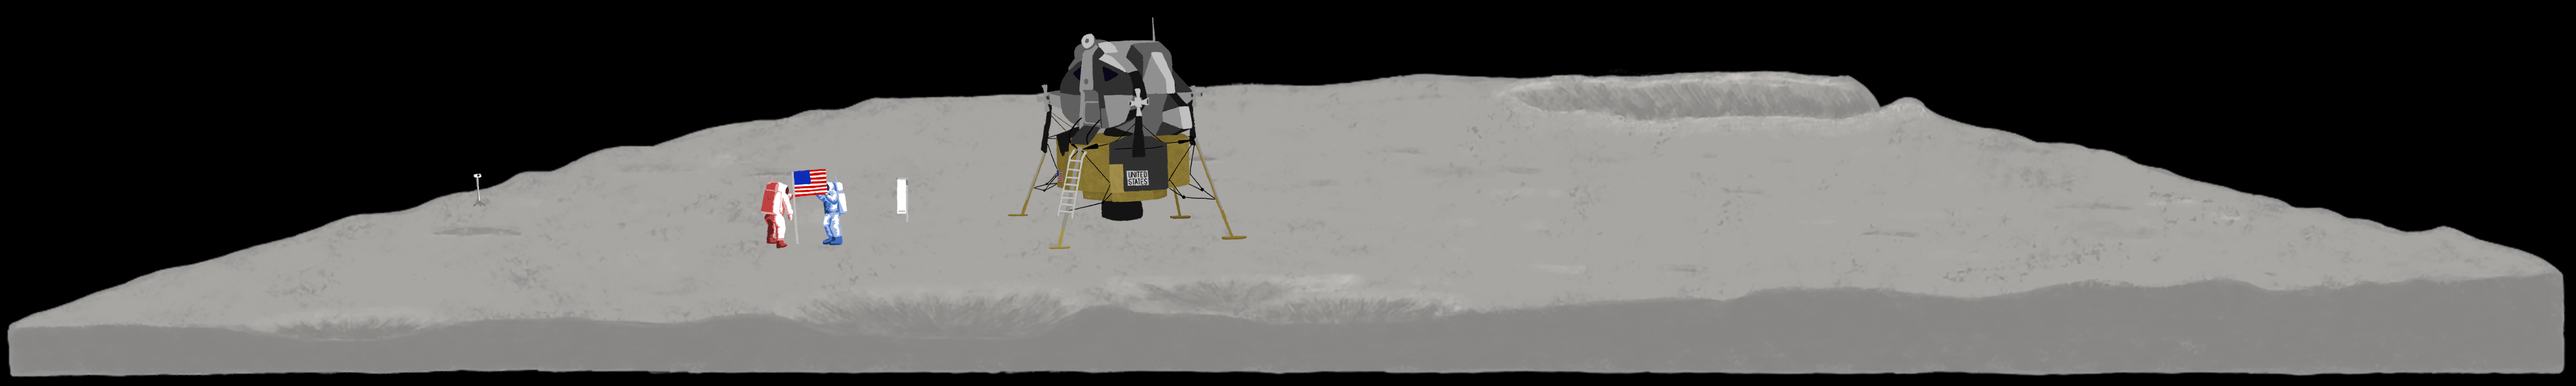
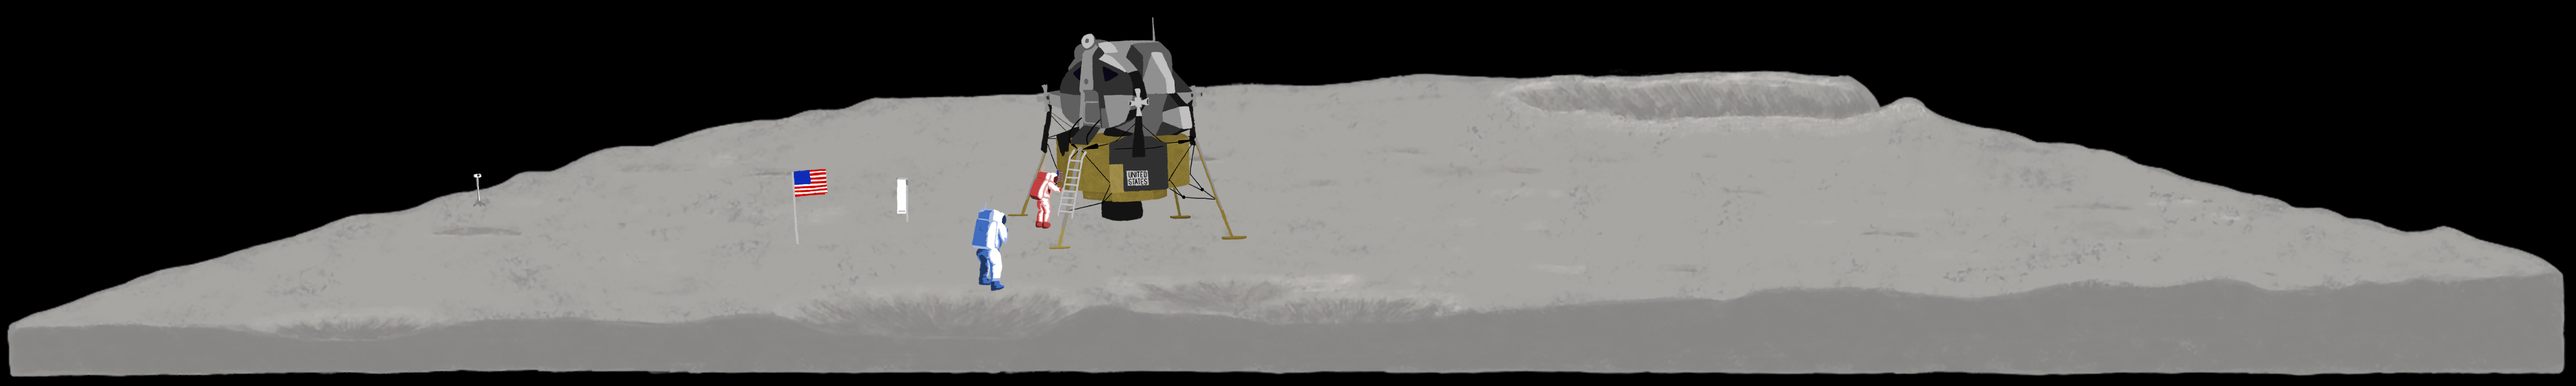
Updates animations

Changed region(s): [[0.375, 0.45, 0.4375, 0.75], [0.2812, 0.48, 0.3438, 0.63]]

diff --git a/index.html b/index.html
@@ -24,6 +24,26 @@
 			</p>
         </section>
 
+        <div class="header" id="labels">    
+            <div class="header-p">
+                <p>
+                    <span class="armstrong">NEIL</span>
+                    <span class="aldrin">BUZZ</span>
+                </p><br>
+                <p>
+                    <span class="armstrong">ARMSTRONG</span>
+                    <span class="aldrin">ALDRIN</span>
+                </p>
+            </div>
+        </div>
+
+        <div class="header-c" id="collins">
+                <p>
+                    <span class="collins">MICHAEL</span><br>
+                    <span class="collins">COLLINS</span>
+                </p>
+        </div>
+
 		<section id='scrolly'>
 
 			<figure>
@@ -33,7 +53,7 @@
 
             <!--Transcript goes here-->
 			<article>
-				<div class='step' data-step='1'>
+                <div class='step' data-step='1'>
                     <p>hr:mn<br>00:00</p>
                     <ul>
                         <li class="neil">The hatch is coming open.</li>
@@ -141,7 +161,17 @@
                 </div>
 
 				<div class='step' data-step='8'>
-                    <p>01:01</p>
+                    <p>01:24</p>
+                        <ul>
+                            <li class="buzz">And right in this area, there are two craters. The one that's right in front of me now as I look off in about the eleven o'clock position from the spacecraft, about 30 to 35 feet ... There's several rocks and boulders 6 to 8 inches across.</li>
+                            <li class="comment">...</li>
+                            <li class="buzz">How's the bulk sample coming, Neil?</li>
+                            <li class="neil">Bulk sample is just being sealed.</li>
+                        </ul>
+                </div>
+                
+                <div class='step' data-step='9'>
+                    <p>END</p>
                         <ul>
                             <li class="capcom"> Columbia, this is Houston. Reading you loud and clear. Over.</li>
                             <li class="mike"> Yes. Reading you loud and clear. How's it going?</li>
@@ -157,25 +187,10 @@
                         </ul>
                 </div>
                 
-                <div class='step' data-step='9'>
-                    <p>01:01</p>
-                        <ul>
-                            <li class="capcom"> Columbia, this is Houston. Reading you loud and clear. Over.</li>
-                            <li class="mike"> Yes. Reading you loud and clear. How's it going?</li>
-                            <li class="capcom"> Roger. The EVA is progressing beautifully. I believe they are setting up the flag now.</li>
-                            <li class="mike"> Great.</li>
-                            <li class="capcom"> I guess you're about the only person around that doesn't have TV coverage of the scene.</li>
-                            <li class="mike"> That's all right. I don't mind a bit.</li>
-                            <li class="mike"> How is the quality of the TV?</li>
-                            <li class="capcom"> Oh, it's beautiful, Mike. It really is.</li>
-                            <li class="mike"> Oh, gee, that's great! Is the lighting half way decent?</li>
-                            <li class="capcom"> Yes, indeed. They've got the flag up now and you can see the stars and stripes on the lunar surface.</li>
-                            <li class="mike"> Beautiful. Just beautiful.</li>
-                        </ul>
-                </div>
-                
-                <div class='step' data-step='9'>
+                <div class='step' data-step='10'>
                     <p>STEP 10</p>
+
+                    
 				</div>
 			</article>
 
@@ -241,12 +256,32 @@
             //update moon image
             document.getElementById('moon').src = ("media/Moon-" + response.index + ".jpg");
 
+            //make command module fly
             var element = document.getElementById("orbit");
             
-            if (response.index >= 6) {
+            if (response.index == 6) {
                 element.classList.add("slideLeft");
                 } else {
-                    element.classList.remove("slideLeft");
+                element.classList.remove("slideLeft");
+            }
+
+            console.log(response.index);
+
+            //header label
+            var header = document.getElementById("labels");
+            
+            if (response.index > 0 && response.index <10 ) {
+                header.style.opacity = 1;
+                } else {
+                header.style.opacity = 0;
+            }
+
+            var headercollins = document.getElementById("collins");
+
+            if (response.index == 6 ) {
+                headercollins.style.opacity = 1;
+                } else {
+                headercollins.style.opacity = 0;
             }
 		}
 
@@ -267,7 +302,7 @@
 			scroller.setup({
 				step: '#scrolly article .step',
 				offset: .5, //trigger line
-				debug: true,
+ 				debug: true,
 			})
 				.onStepEnter(handleStepEnter)
 

diff --git a/style.css b/style.css
@@ -64,6 +64,8 @@ span.m {
   position: absolute;
   -webkit-animation: slideLeft 10s;
   animation: slideLeft 10s;
+  -webkit-animation-fill-mode: forwards;
+  animation-fill-mode: forwards;
 }
 
 /*animation links
@@ -147,6 +149,52 @@ article {
     margin: 0 auto;
     z-index: 9;
 }
+
+.header {
+  opacity: 0;
+  position: fixed;
+  background-color: rgba(25,25,25,100);
+  top: 0;
+  width: 100%;
+  margin: 0 auto;
+  height: 4rem;
+  z-index: 10;
+}
+
+.header-p {
+  max-width: 40rem;
+  margin: 0 auto;
+}
+
+.armstrong {
+  float: left;
+  color: var(--neil-color);
+  font-weight: bold;
+}
+
+.aldrin {
+  float: right;
+  color: var(--buzz-color);
+  font-weight: bold;
+}
+
+.header-c {
+  opacity: 0;
+  position: fixed;
+  text-align: center;
+  background-color: rgba(0,0,0,0));
+  top: 0;
+  width: 100%;
+  margin: 0 auto;
+  height: 4rem;
+  z-index: 10;
+}
+
+.collins {
+  color: var(--mike-color);
+  font-weight: 500;
+}
+
 
 /*sticky*/
 figure {
@@ -288,7 +336,7 @@ figure p {
     width: 70%;
     text-align: justify;
     background: rgba(0,0,0,0);
-    color: var(--mike-color);;
+    color: var(--mike-color);
   }
   
   .neil{
